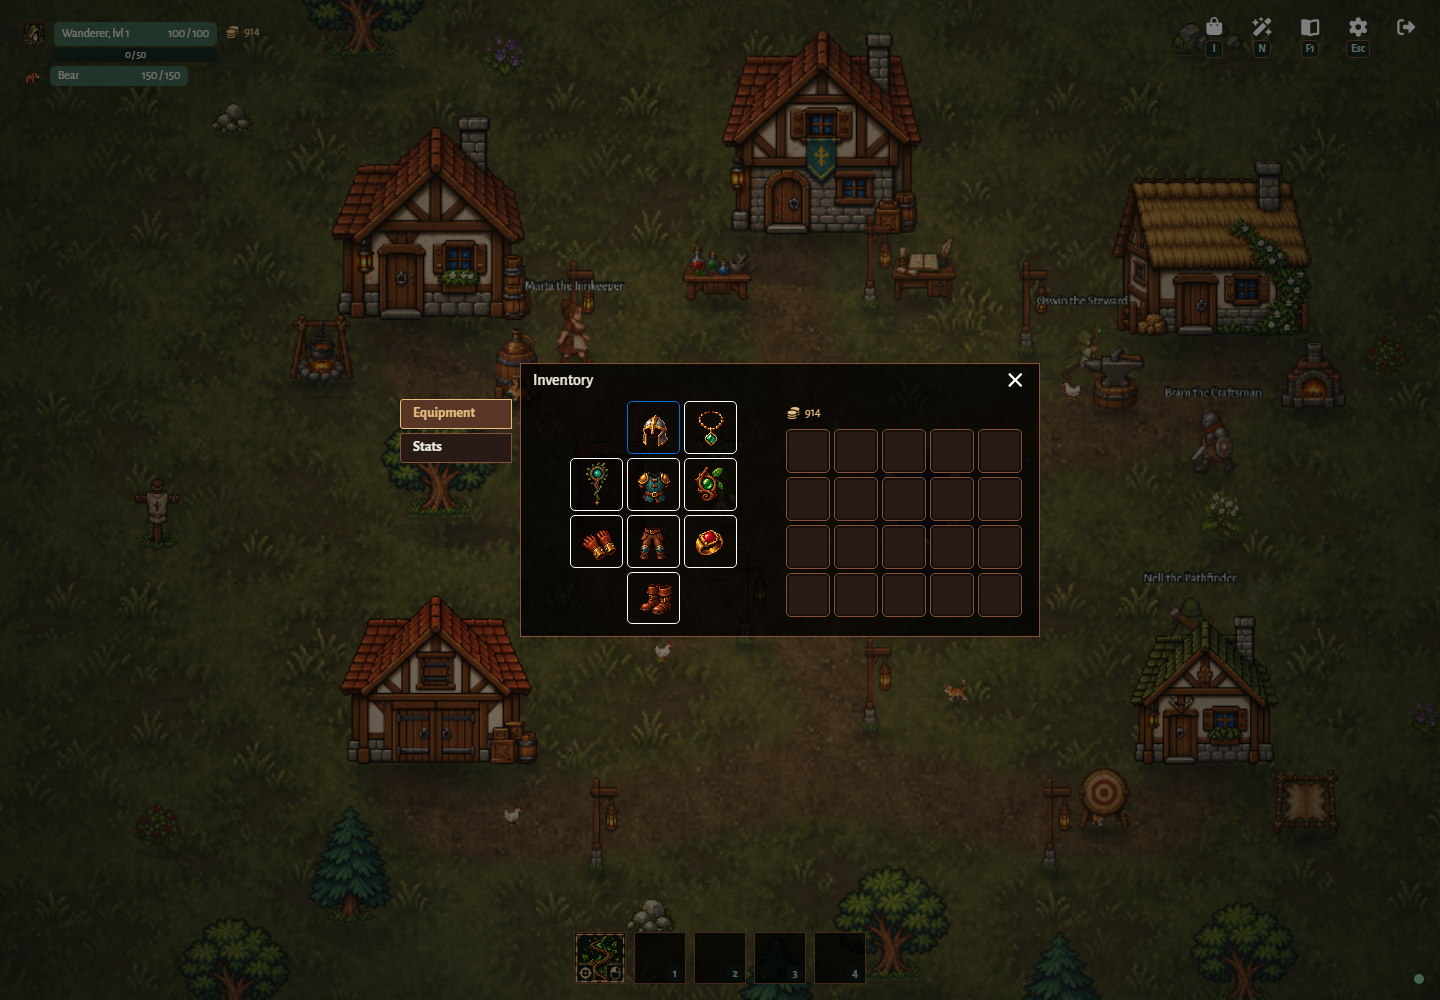
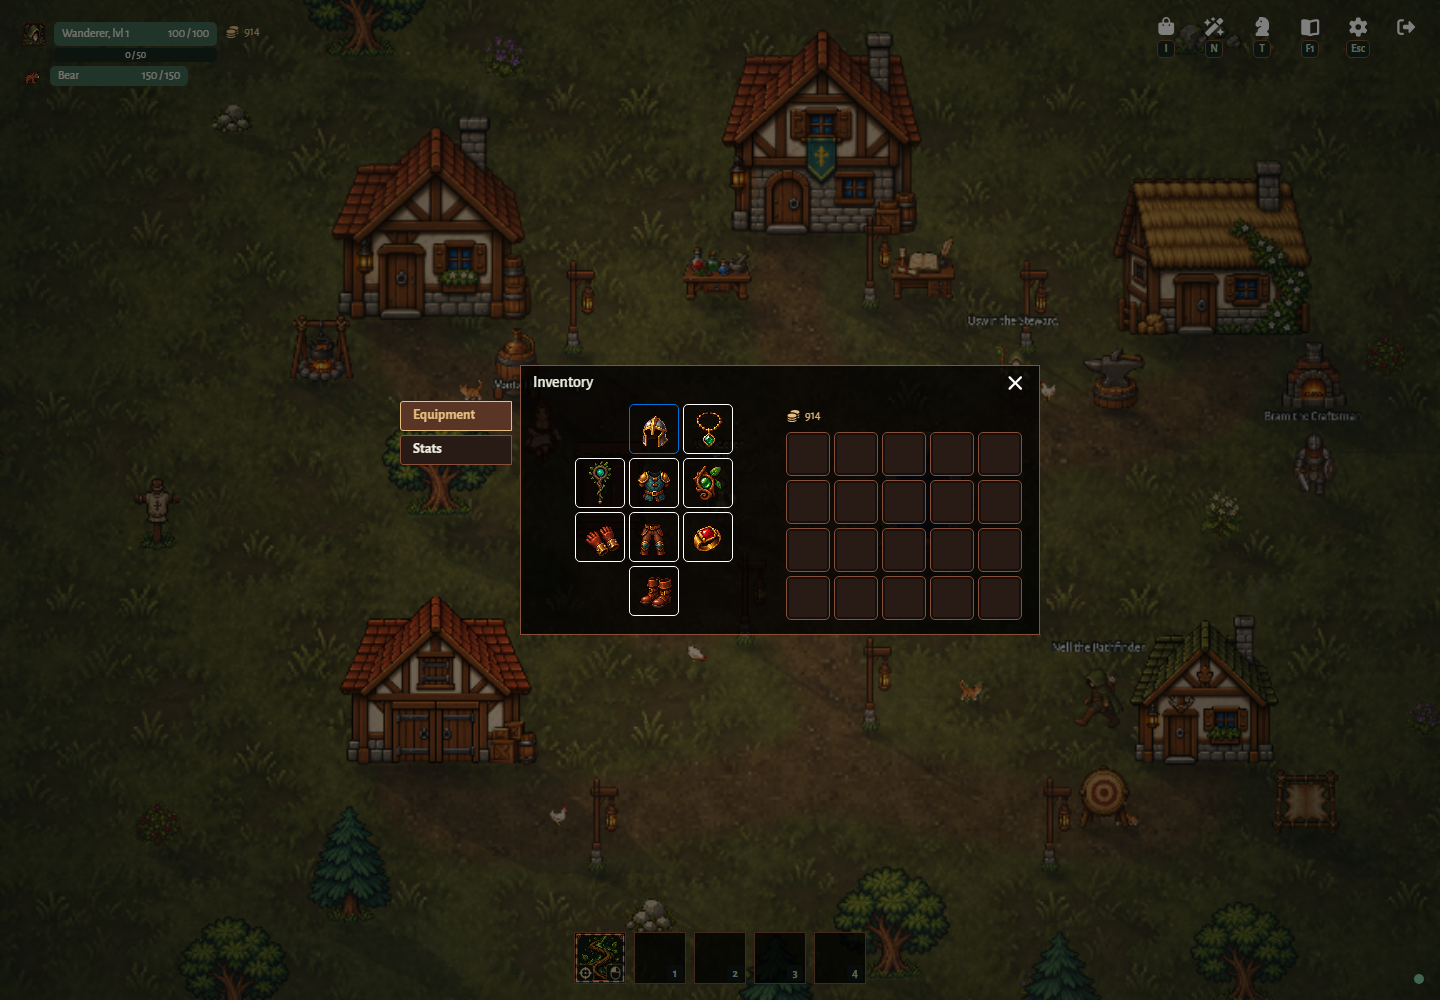
fix: keep inventory tabs at the same height (#370)

diff --git a/tests/equipment.spec.ts b/tests/equipment.spec.ts
@@ -67,7 +67,7 @@ test('inventory tabs preserve the bag, aligned square gear and calculated stat t
 
     for (const [id, [column, row]] of Object.entries(positions)) {
       const box = (await dialog.locator(`[data-equipment-slot=${id}]`).boundingBox())!;
-      expect(box.width).toBeCloseTo(bagBox.width * 1.2, 1);
+      expect(box.width).toBe(50);
       expect(box.height).toBe(box.width);
       expect(box.x - origin.x).toBeCloseTo((column - 2) * (box.width + 4), 1);
       expect(box.y - origin.y).toBeCloseTo((row - 1) * (box.height + 4), 1);
@@ -78,12 +78,13 @@ test('inventory tabs preserve the bag, aligned square gear and calculated stat t
   await page.mouse.move(0, 0);
   await page.screenshot({ path: 'test-results/inventory-equipment-tabs.png' });
   const bagBox = await bag.boundingBox();
+  const equipmentSurface = await dialog.locator('.game-window-surface').boundingBox();
   await equipment.focus();
   await page.keyboard.press('ArrowDown');
   await expect(statsTab).toBeFocused();
   await page.keyboard.press('Enter');
   await expect(statsTab).toHaveAttribute('aria-selected', 'true');
-  await expect(dialog.locator('[data-equipment-slot]')).toHaveCount(0);
+  await expect(dialog.getByRole('button', { name: /^Helmet:/ })).toHaveCount(0);
   const stats = dialog.getByRole('region', { name: 'Character stats' });
   await expect(stats).toContainText('Critical chance7.8%');
   await expect(stats).toContainText('Critical damage164%');
@@ -92,12 +93,16 @@ test('inventory tabs preserve the bag, aligned square gear and calculated stat t
   const after = (await bag.boundingBox())!;
   expect(after.x).toBe(bagBox!.x);
   expect(after.width).toBe(bagBox!.width);
+  expect(after.y).toBe(bagBox!.y);
+  expect(after.height).toBe(bagBox!.height);
+  expect(await dialog.locator('.game-window-surface').boundingBox()).toEqual(equipmentSurface);
   await page.mouse.move(0, 0);
   await page.screenshot({ path: 'test-results/inventory-stats-tabs.png' });
   await page.keyboard.press('ArrowUp');
   await expect(equipment).toBeFocused();
   await page.keyboard.press('Enter');
   await expect(dialog.locator('[data-equipment-slot]')).toHaveCount(9);
+  expect(await dialog.locator('.game-window-surface').boundingBox()).toEqual(equipmentSurface);
   await dialog.locator('[data-equipment-slot=helmet]').click({ button: 'right' });
   await statsTab.click();
   await expect(stats).toContainText('Critical chance5%');

diff --git a/packages/ui/src/components/ChapterTabs.tsx b/packages/ui/src/components/ChapterTabs.tsx
@@ -17,6 +17,7 @@ export interface ChapterTabsProps {
   chapters: Chapter[];
   value: string;
   showHeading?: boolean;
+  keepMounted?: boolean;
   onChange: (id: string) => void;
 }
 export function ChapterTabs({
@@ -24,6 +25,7 @@ export function ChapterTabs({
   chapters,
   value,
   showHeading = true,
+  keepMounted = false,
   onChange,
 }: ChapterTabsProps) {
   const id = useId();
@@ -82,18 +84,29 @@ export function ChapterTabs({
   return (
     <Stack direction='row' spacing={1} useFlexGap sx={{ minWidth: 0 }}>
       {windowTabs ? createPortal(tabs, windowTabs) : tabs}
-      <Box sx={{ minWidth: 0, flex: 1 }}>
+      <Box sx={{ minWidth: 0, flex: 1, display: keepMounted ? 'grid' : undefined }}>
         {chapters.map((chapter) => {
           return (
             <Box
               key={chapter.id}
               role='tabpanel'
-              hidden={value !== chapter.id || chapter.disabled}
+              hidden={!keepMounted && (value !== chapter.id || chapter.disabled)}
+              inert={value !== chapter.id || chapter.disabled}
+              aria-hidden={value !== chapter.id || chapter.disabled}
+              sx={
+                keepMounted
+                  ? {
+                      gridArea: '1 / 1',
+                      visibility: value === chapter.id && !chapter.disabled ? 'visible' : 'hidden',
+                      minWidth: 0,
+                    }
+                  : undefined
+              }
               id={`${id}-panel-${chapter.id}`}
               aria-labelledby={`${id}-${chapter.id}`}
               tabIndex={0}
             >
-              {value === chapter.id && !chapter.disabled && (
+              {(keepMounted || value === chapter.id) && !chapter.disabled && (
                 <>
                   {showHeading && (
                     <Typography component='h3' variant='h3' gutterBottom>

diff --git a/packages/ui/src/components/equipment.styles.ts b/packages/ui/src/components/equipment.styles.ts
@@ -14,9 +14,8 @@ const EQUIPMENT_STYLE = {
 
 // Preserve the established 44px inventory cell shared with fixed equipment geometry.
 export const BACKPACK_SLOT_SIZE = 44;
-// Equipment artwork occupies cells twenty percent larger than the backpack cells.
-const EQUIPMENT_SLOT_SCALE = 1.2;
-export const EQUIPMENT_SLOT_SIZE = BACKPACK_SLOT_SIZE * EQUIPMENT_SLOT_SCALE;
+// Four 50px rows and their gaps fit within the standard inventory Stats panel.
+export const EQUIPMENT_SLOT_SIZE = 50;
 
 export const GearTooltipStyled = styled(({ className, ...props }: TooltipProps) => {
   return createElement(Tooltip, { ...props, classes: { popper: className } });

diff --git a/packages/ui/src/stories/EquipmentPanel.stories.tsx b/packages/ui/src/stories/EquipmentPanel.stories.tsx
@@ -134,6 +134,7 @@ export const Inventory: StoryObj<typeof meta> = {
       <div style={{ display: 'grid', gridTemplateColumns: '1fr 1fr', gap: 12 }}>
         <ChapterTabs
           label='Inventory'
+          keepMounted
           value={tab}
           onChange={setTab}
           showHeading={false}

diff --git a/packages/client/src/equipment-view.tsx b/packages/client/src/equipment-view.tsx
@@ -119,6 +119,7 @@ export function Equipment({
     <Box sx={{ display: 'grid', gridTemplateColumns: 'minmax(0, 1fr) minmax(0, 1fr)', gap: 1.5 }}>
       <ChapterTabs
         label='Inventory'
+        keepMounted
         value={tab}
         onChange={setTab}
         showHeading={false}

diff --git a/packages/ui/README.md b/packages/ui/README.md
@@ -161,11 +161,12 @@ All consumer-facing prop/data types are exported from `src/index.ts`. Screen sto
 
 EquipmentPanel derives its grid dimensions from supplied slot positions, with a
 minimum of three columns and four rows. Additional rows/columns preserve the
-fixed 52.8px square cells and the existing base arrangement. Both track axes
-use the same size, exactly 1.2 times the shared 44px backpack cell, so item artwork
+fixed 50px square cells and the existing base arrangement. Both track axes
+use the same size, so item artwork
 and available width cannot stretch slots. Empty slot/stat arrays omit their
 respective section. The inventory host uses ChapterTabs for external Equipment
-and Stats tabs, with the backpack remaining visible beside either panel.
+and Stats tabs with `keepMounted` to reserve both panels' height. Inactive content
+stays hidden and inert; switching tabs keeps the window and backpack in place.
 Calculated totals include equipment bonuses without duplicate bonus rows.
 The host supplies valid
 positive coordinates, labels, icons and stats; the component has no registry or

diff --git a/docs/specs/interface/inventory.md b/docs/specs/interface/inventory.md
@@ -21,8 +21,9 @@ available. The warning updates when the current class changes.
 
 The left side has three columns: weapon/gloves; helmet/body armor/leggings/boots;
 amulet/off-hand/ring. All cells are equal squares in a fixed three-column, four-row
-base grid, with aligned sides and equal gaps. Equipment cells are 52.8px per side,
-exactly 1.2 times the 44px backpack cells. Equipped slots retain their rarity border;
+base grid, with aligned sides and equal gaps. Equipment cells are 50px per side,
+compact enough to fit the standard Stats tab height. Switching tabs preserves the
+window and backpack position and dimensions. Equipped slots retain their rarity border;
 empty slots have no border. Empty slots show generated wardrobe-style
 equipment icons at 15% effective opacity; equipped weapons keep their full-brightness
 icon. Hover, focus or touch exposes a narrow translucent-black item tooltip with
